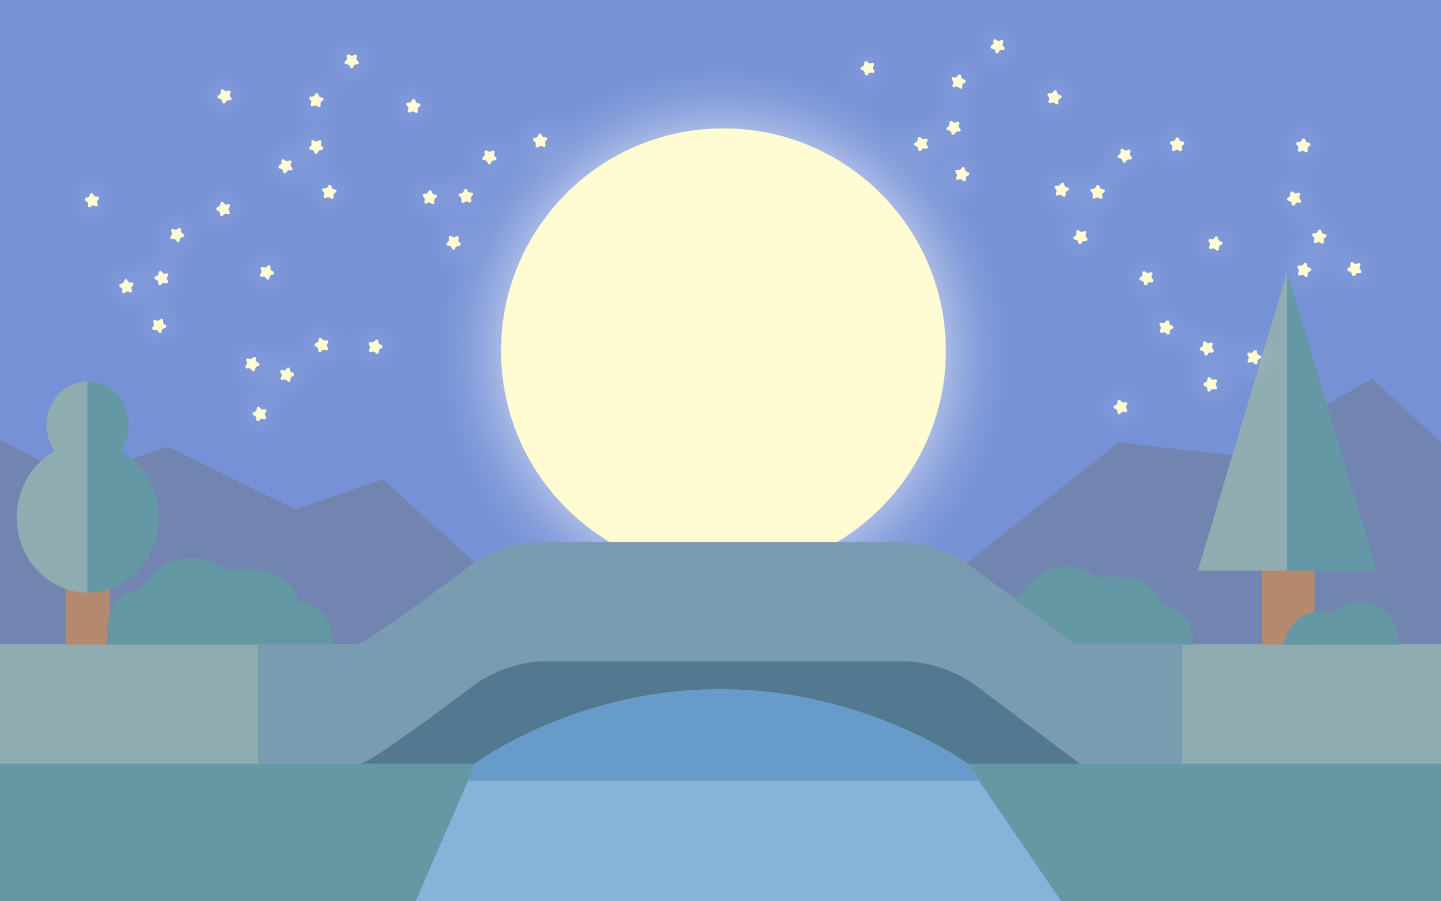
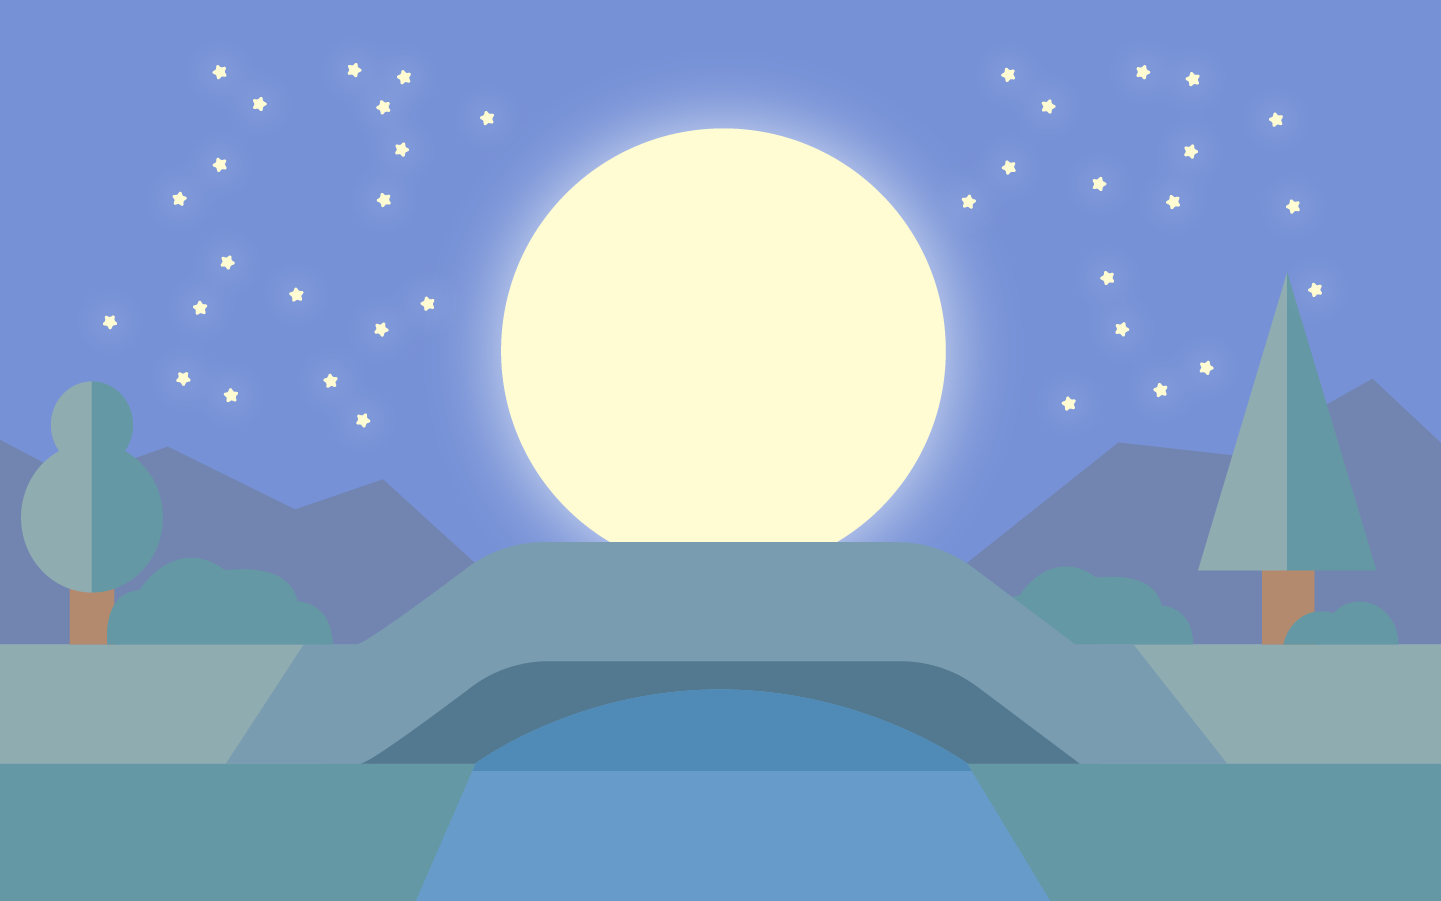
update

diff --git a/css3/七夕主题/css/style.css b/css3/七夕主题/css/style.css
@@ -125,7 +125,7 @@ body {
     -webkit-transform-style: preserve-3d;
     -webkit-backface-visibility: hidden;
     -webkit-perspective: 1000;
-    -webkit-transform: translateX(-2880px);
+    /*-webkit-transform: translateX(-2880px);*/
 }
 
 .content-wrap > li {
@@ -263,31 +263,33 @@ body {
         background-size: 100% 100%;
     }
 }
-
-
 /*男孩转身*/
-.boy-rotate .charector{
-    -webkit-animation-name: boy-rotate;
-    -webkit-animation-duration:1000ms;
-    -webkit-animation-iteration-count: 1;
-    -webkit-animation-timing-function:step-start;
-    -webkit-animation-fill-mode:forwards;
-}      
 
-@-webkit-keyframes boy-rotate{
+.boy-rotate .charector {
+    -webkit-animation-name: boy-rotate;
+    -webkit-animation-duration: 200ms;
+    -webkit-animation-iteration-count: 1;
+    -webkit-animation-timing-function: step-start;
+    -webkit-animation-fill-mode: forwards;
+}
+
+@-webkit-keyframes boy-rotate {
     0% {
-        background: url(../images/boy/boy-around4.png);
+       background: url(../images/boy/boy-around1.png);
     }
-    25% {
-        background: url(../images/boy/boy-around1.png);
+    20% {
+         background: url(../images/boy/boy-around2.png);
     }
-    50% {
-        background: url(../images/boy/boy-around2.png);
+    40% {
+       background: url(../images/boy/boy-around3.png);
     }
-    75% {
-        background: url(../images/boy/boy-around3.png);
+    60% {
+         background: url(../images/boy/boy-around4.png);
+    }
+    80% {
+        background: url(../images/boy/boy-around5.png);
     }
     100% {
-        background: url(../images/boy/boy-around4.png);
+         background: url(../images/boy/boy-around6.png);
     }
 }

diff --git a/css3/七夕主题/js/Qixi.js b/css3/七夕主题/js/Qixi.js
@@ -6,8 +6,8 @@
  */
 var Qixi = function() {
 
-        //走过的位置
-        var instanceX;
+    //走过的位置
+    var instanceX;
 
     //页面容器
     var container = $("#content");
@@ -16,7 +16,7 @@ var Qixi = function() {
     var visualHeight = container.height()
 
     //时间设置(时间毫秒）
-    var walkTime = 100; //正常走路
+    var walkTime = 200; //正常走路
     var inShopWalkTime = 100; //进商店时间
     var outShopWalkTime = 100; //出商店时间
     var simulateWaitTime = 0; //模拟等待时间
@@ -94,7 +94,7 @@ var Qixi = function() {
             //桥上走路
              return boy.walkTo(proportionX) 
         }).then(function() {
-            //停止走路
+            //停止走路  
             boy.stopWalk();
             //增加转身动作 
             girl.rotate();

diff --git a/css3/七夕主题/index.html b/css3/七夕主题/index.html
@@ -57,6 +57,14 @@
                         <div id="water3" class="water_3"></div>
                     </div>
                 </div>
+                <!-- 星星 -->
+                <ul class="stars">
+                    <li></li>
+                    <li></li>
+                    <li></li>
+                    <li></li>
+                    <li></li>
+                </ul>
             </li>
     </div>
     </li>

diff --git a/css3/七夕主题/css/page_c.css b/css3/七夕主题/css/page_c.css
@@ -84,3 +84,22 @@
     top: 50%;
     background-image: url("../images/water/water_3.png");
 }
+
+/*星星*/
+
+.stars{
+    width: 100%;
+    height: 100%;
+    position: absolute;
+}
+
+.stars > li{
+    position: absolute;
+    width: 30px;
+    height: 31px;
+    background-image: url("../images/stars.png");
+}
+
+.strat >li:first-child {
+    top: 20%;
+}
